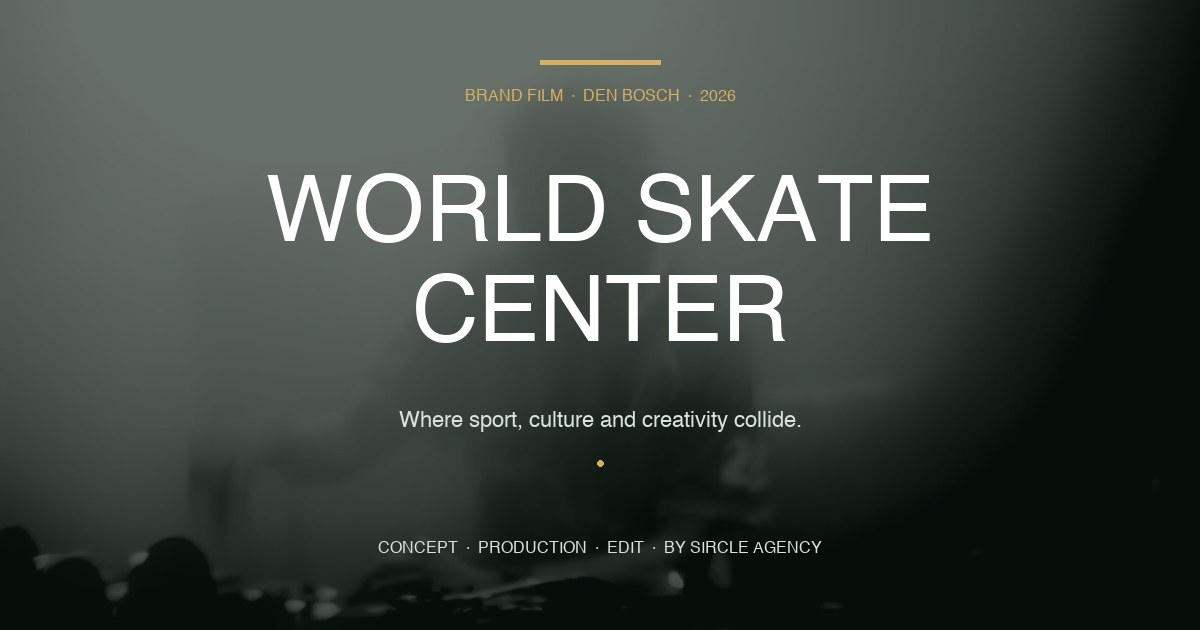
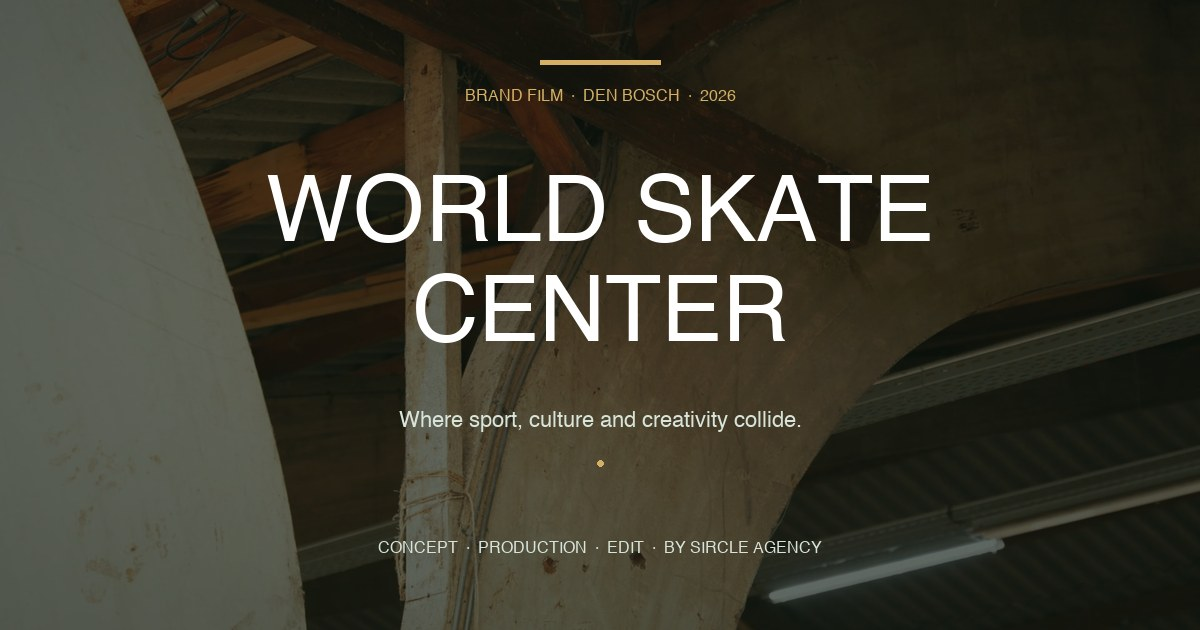
WSC: master V7 live + copy refresh (NL + EN)
Vimeo embed bijgewerkt naar nieuwe master cut. Hero + OG poster
ververst met still uit de nieuwe versie. Copy aangescherpt.

- Vimeo player URL naar 1197838044 (h=723936be1d)
- Hero image + OG image regenereed met nieuwe Vimeo poster
- Intro herschreven: focus op concept/productie/storytelling i.p.v. 5 mnd
- Nieuwe sectie 'Drie momenten die deze film maken': archief, BYST sessie, Josephine
- Nieuwe sectie 'Wat het oplevert': brandfilm + beeldbank + subsidies/positionering
- Cijfer-block bijgewerkt: dropt 5 mnd, toont output (brandfilm + beeldbank + traject)
- EN versie mirror-vertaald

diff --git a/en/werk/world-skate-center.html b/en/werk/world-skate-center.html
@@ -173,7 +173,7 @@
 
       <!-- INTRO -->
       <div class="case-block reveal-up">
-        <p>The largest indoor skate hall in the Netherlands deserved a film as layered as the venue itself. <strong>Five months</strong> of concept, shoots and edit. One film that feels like WSC: raw, layered, full of energy.</p>
+        <p>We took the full project on: <strong>concept, production and edit</strong>. Not only for the brand film, but for the wider asset library that moves WSC forward.</p>
       </div>
 
       <div class="case-tags-row reveal-up">
@@ -185,15 +185,9 @@
         <span>Sound Design</span>
       </div>
 
-      <!-- VIMEO EMBED, temporarily offline, new cut on the way -->
-      <!--
+      <!-- VIMEO EMBED, MASTER V7 -->
       <div class="wsc-video reveal-up">
-        <iframe src="https://player.vimeo.com/video/1197461351?fl=ip&fe=ec" allow="autoplay; fullscreen; picture-in-picture" allowfullscreen title="World Skate Center · Brand Film"></iframe>
-      </div>
-      -->
-      <div class="wsc-video-placeholder reveal-up">
-        <span class="wsc-video-placeholder__eyebrow">Coming soon</span>
-        <p class="wsc-video-placeholder__text">The final cut of the film will be live here shortly.</p>
+        <iframe src="https://player.vimeo.com/video/1197838044?h=723936be1d" allow="autoplay; fullscreen; picture-in-picture" allowfullscreen title="World Skate Center · Brand Film"></iframe>
       </div>
 
       <!-- TAGLINE -->
@@ -232,7 +226,36 @@
       <!-- BONUS, stakeholder credits reel -->
       <div class="case-block reveal-up" style="margin-top: var(--space-lg);">
         <h2 style="font-size: clamp(1.4rem, 3vw, 2rem); color: var(--cream); margin-bottom: 12px;">Bonus · credits reel</h2>
-        <p>A short closing reel that brings all stakeholders who make WSC possible into view. Sponsors, partners, builders, coaches, volunteers. A tribute to the people behind the hall.</p>
+        <p>A short closing reel that brings the stakeholders who make WSC possible into view. Sponsors, partners, builders, coaches, volunteers.</p>
+      </div>
+
+      <!-- THREE MOMENTS that make this film -->
+      <div class="case-block reveal-up" style="margin-top: var(--space-lg);">
+        <h2 style="font-size: clamp(1.4rem, 3vw, 2rem); color: var(--cream); margin-bottom: 12px;">Three moments that make this film</h2>
+      </div>
+
+      <div class="wsc-scene-grid reveal-up">
+        <div class="wsc-scene">
+          <span class="wsc-scene__num">ARCHIVE</span>
+          <h3>Years of skate history</h3>
+          <p>WSC shared their full archive. Footage from across the years, woven through the new material we shot today.</p>
+        </div>
+        <div class="wsc-scene">
+          <span class="wsc-scene__num">BYST SESSION</span>
+          <h3>Private access to the elite team</h3>
+          <p>A closed training session of the BYST high-performance programme. Material you can't capture anywhere else.</p>
+        </div>
+        <div class="wsc-scene">
+          <span class="wsc-scene__num">JOSEPHINE</span>
+          <h3>Twelve years old, in frame</h3>
+          <p>We followed Josephine, twelve, finding her place inside the youth scene of the hall. The personal story behind the brand.</p>
+        </div>
+      </div>
+
+      <!-- WHAT IT DELIVERS -->
+      <div class="case-block reveal-up" style="margin-top: var(--space-lg);">
+        <h2 style="font-size: clamp(1.4rem, 3vw, 2rem); color: var(--cream); margin-bottom: 12px;">What it delivers</h2>
+        <p>One master film for positioning, sponsorships and grant applications with the city of Den Bosch. Plus a complete asset library of skate, sport, culture and community. Enough material to run social content for months without another shoot day.</p>
       </div>
 
       <!-- BTS GALLERY -->
@@ -266,15 +289,15 @@
       <div class="case-results reveal-up">
         <div class="results-grid">
           <div class="result-card">
-            <span class="result-big">5 months</span>
-            <span class="result-desc">Concept to delivery</span>
+            <span class="result-big">1 brand film</span>
+            <span class="result-desc">For grants and positioning</span>
           </div>
           <div class="result-card">
-            <span class="result-big">4 chapters</span>
-            <span class="result-desc">Plus credits reel</span>
+            <span class="result-big">Asset library</span>
+            <span class="result-desc">Months of social content</span>
           </div>
           <div class="result-card">
-            <span class="result-big">Full-stack</span>
+            <span class="result-big">Full project</span>
             <span class="result-desc">Concept · Production · Edit · Grade</span>
           </div>
         </div>

diff --git a/werk/world-skate-center.html b/werk/world-skate-center.html
@@ -173,7 +173,7 @@
 
       <!-- INTRO -->
       <div class="case-block reveal-up">
-        <p>De grootste indoor skatehal van Nederland verdiende een film die zo veelzijdig is als de hal zelf. <strong>Vijf maanden</strong> aan concept, opnames en edit. Eén film die voelt als WSC: rauw, gelaagd, vol energie.</p>
+        <p>Wij pakten het volledige traject op: <strong>concept, productie en edit</strong>. Niet alleen voor de brandfilm, maar voor de bredere beeldbank die WSC vooruit helpt.</p>
       </div>
 
       <div class="case-tags-row reveal-up">
@@ -185,15 +185,9 @@
         <span>Sound Design</span>
       </div>
 
-      <!-- VIMEO EMBED, tijdelijk offline, nieuwe versie in aantocht -->
-      <!--
+      <!-- VIMEO EMBED, MASTER V7 -->
       <div class="wsc-video reveal-up">
-        <iframe src="https://player.vimeo.com/video/1197461351?fl=ip&fe=ec" allow="autoplay; fullscreen; picture-in-picture" allowfullscreen title="World Skate Center · Brand Film"></iframe>
-      </div>
-      -->
-      <div class="wsc-video-placeholder reveal-up">
-        <span class="wsc-video-placeholder__eyebrow">Coming soon</span>
-        <p class="wsc-video-placeholder__text">De definitieve versie van de film staat hier binnenkort online.</p>
+        <iframe src="https://player.vimeo.com/video/1197838044?h=723936be1d" allow="autoplay; fullscreen; picture-in-picture" allowfullscreen title="World Skate Center · Brand Film"></iframe>
       </div>
 
       <!-- TAGLINE -->
@@ -232,7 +226,36 @@
       <!-- BONUS · credits toegift -->
       <div class="case-block reveal-up" style="margin-top: var(--space-lg);">
         <h2 style="font-size: clamp(1.4rem, 3vw, 2rem); color: var(--cream); margin-bottom: 12px;">Bonus · credits-toegift</h2>
-        <p>Na de finale volgt een korte toegift waarin alle stakeholders die WSC mogelijk maken in beeld komen. Sponsors, partners, bouwers, coaches, vrijwilligers. Een eerbetoon aan de mensen achter de hal.</p>
+        <p>Na de finale een korte toegift met alle stakeholders die WSC mogelijk maken. Sponsors, partners, bouwers, coaches, vrijwilligers.</p>
+      </div>
+
+      <!-- DRIE MOMENTEN die de film maken -->
+      <div class="case-block reveal-up" style="margin-top: var(--space-lg);">
+        <h2 style="font-size: clamp(1.4rem, 3vw, 2rem); color: var(--cream); margin-bottom: 12px;">Drie momenten die deze film maken</h2>
+      </div>
+
+      <div class="wsc-scene-grid reveal-up">
+        <div class="wsc-scene">
+          <span class="wsc-scene__num">ARCHIEF</span>
+          <h3>Jaren skate-historie</h3>
+          <p>WSC deelde hun volledige archief. Beelden uit alle jaren, door ons verweven met de nieuwe opnames van vandaag.</p>
+        </div>
+        <div class="wsc-scene">
+          <span class="wsc-scene__num">BYST SESSIE</span>
+          <h3>Privé bij het topsport-team</h3>
+          <p>Toegang tot een gesloten trainingssessie van het BYST topsport-programma. Beelden van een niveau dat je nergens anders vastlegt.</p>
+        </div>
+        <div class="wsc-scene">
+          <span class="wsc-scene__num">JOSEPHINE</span>
+          <h3>12 jaar, in beeld</h3>
+          <p>We mochten Josephine volgen, twaalf jaar oud, die zich ontwikkelt binnen de jeugdscene van de hal. Het persoonlijke verhaal achter het merk.</p>
+        </div>
+      </div>
+
+      <!-- WAT HET OPLEVERT -->
+      <div class="case-block reveal-up" style="margin-top: var(--space-lg);">
+        <h2 style="font-size: clamp(1.4rem, 3vw, 2rem); color: var(--cream); margin-bottom: 12px;">Wat het oplevert</h2>
+        <p>Eén masterfilm voor positionering, sponsoring en subsidies binnen de gemeente Den Bosch. En een complete beeldbank van skate, sport, cultuur en community. Genoeg materiaal om maanden social-content uit te draaien zonder opnieuw te hoeven shooten.</p>
       </div>
 
       <!-- BTS GALLERY -->
@@ -266,15 +289,15 @@
       <div class="case-results reveal-up">
         <div class="results-grid">
           <div class="result-card">
-            <span class="result-big">5 mnd</span>
-            <span class="result-desc">Concept tot oplevering</span>
+            <span class="result-big">1 brandfilm</span>
+            <span class="result-desc">Voor subsidies en positionering</span>
           </div>
           <div class="result-card">
-            <span class="result-big">4 hoofdstukken</span>
-            <span class="result-desc">Plus credits-toegift</span>
+            <span class="result-big">Beeldbank</span>
+            <span class="result-desc">Maanden social-content</span>
           </div>
           <div class="result-card">
-            <span class="result-big">Full-stack</span>
+            <span class="result-big">Volledig traject</span>
             <span class="result-desc">Concept · Productie · Edit · Grade</span>
           </div>
         </div>